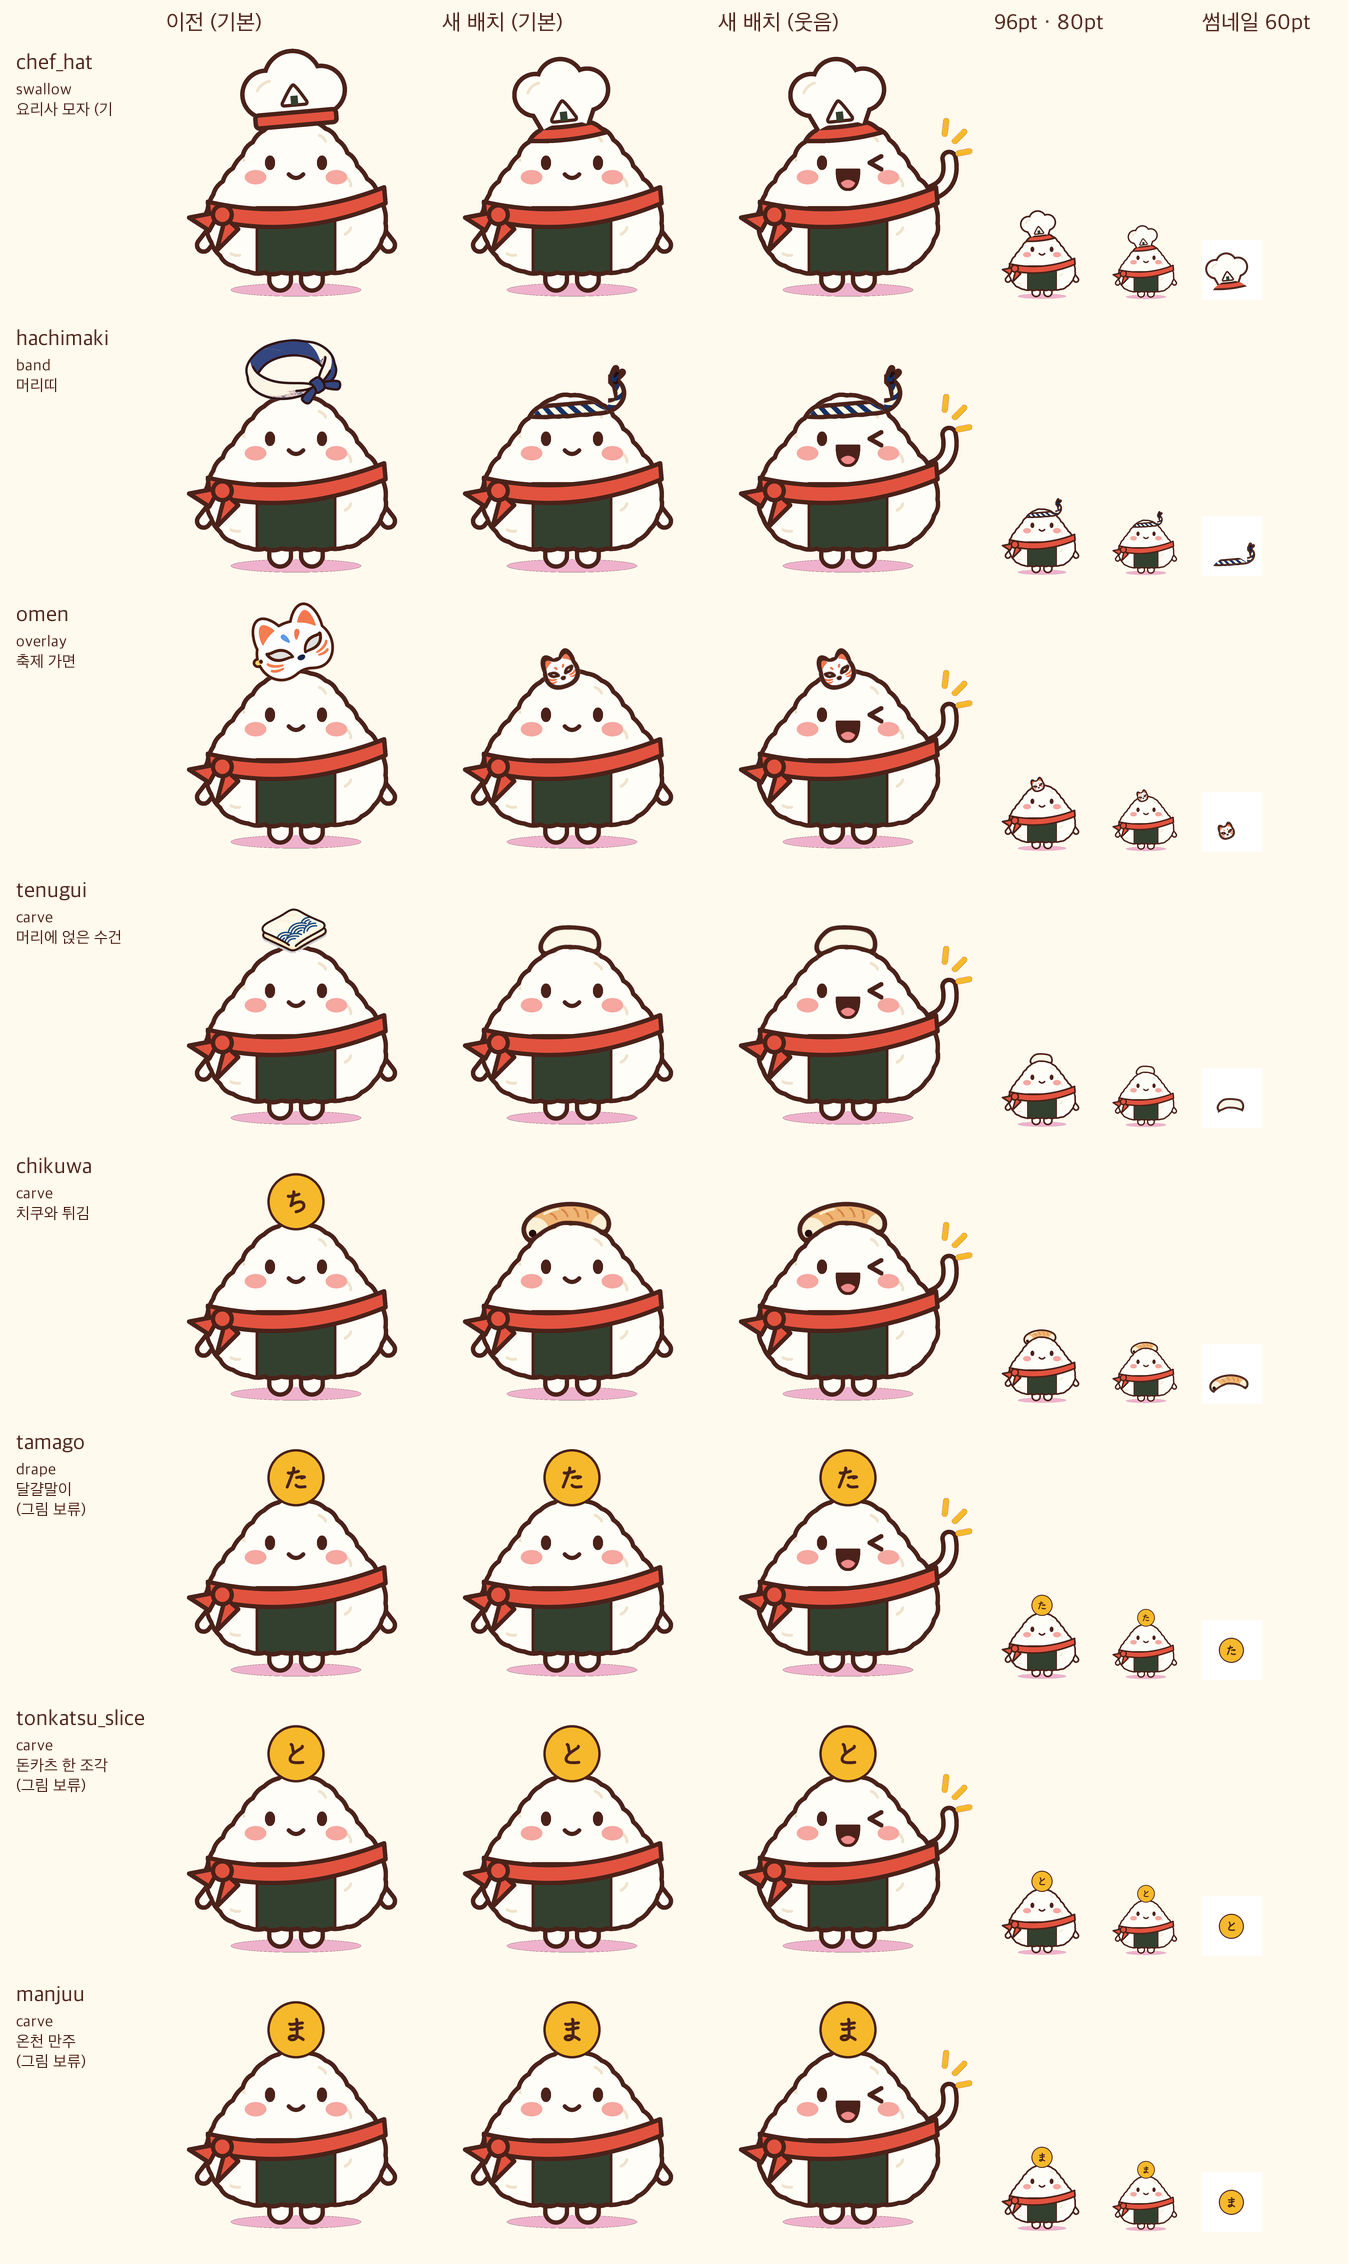
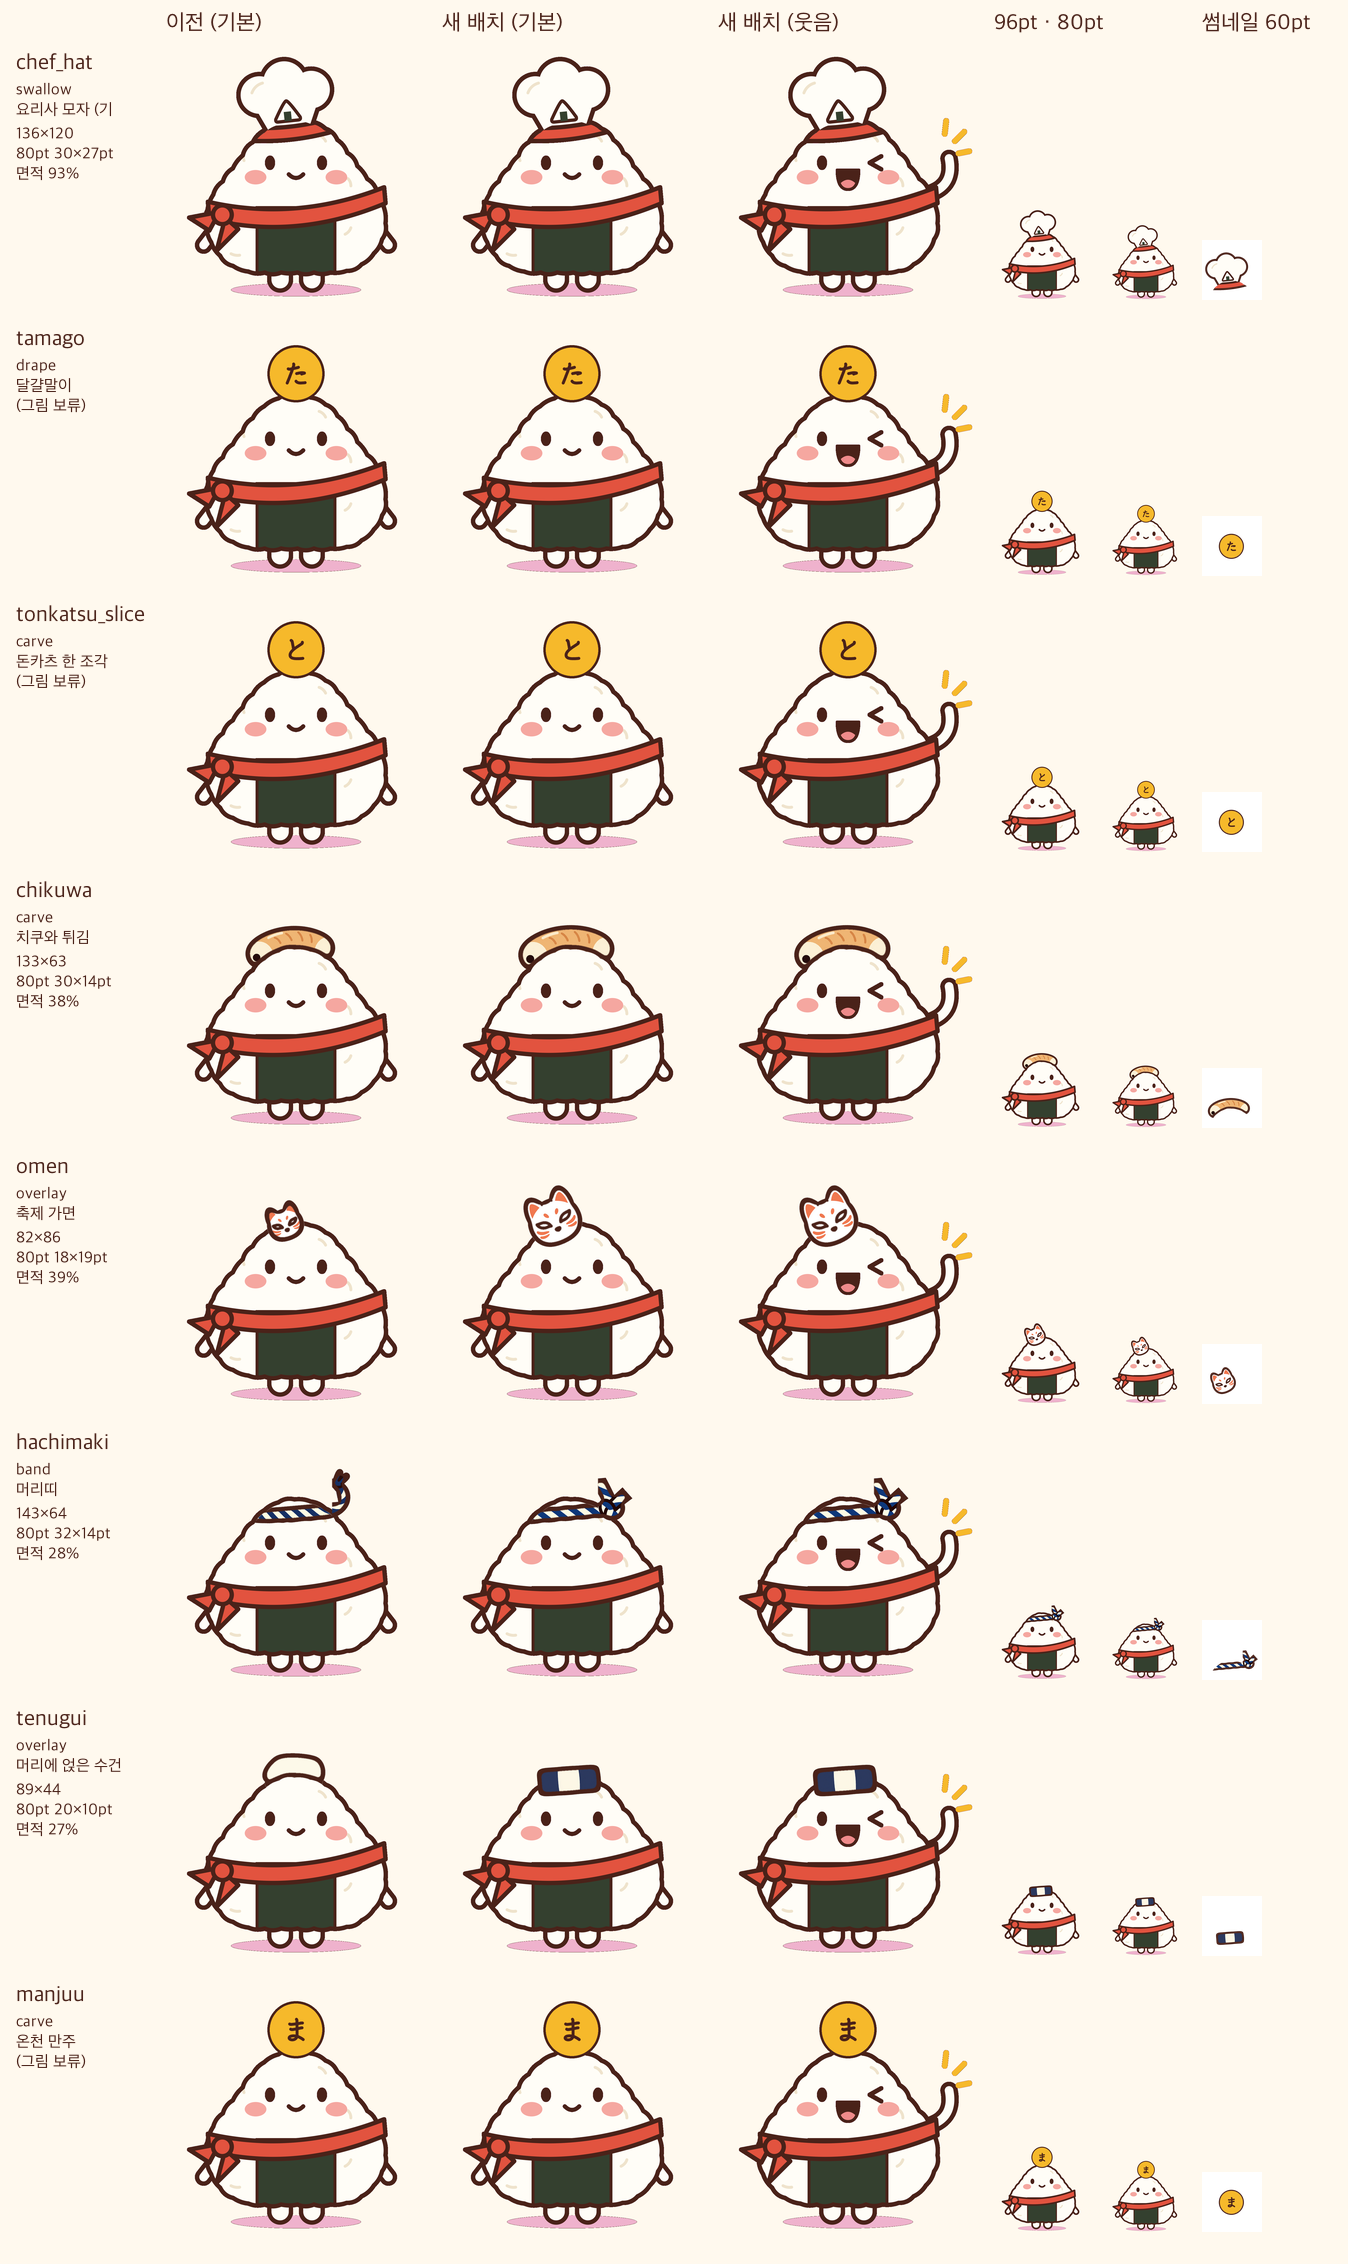
head-fit.md 2차 수정 구현 값·지금 값 표, 비교 시트 다시 만듦, 보류 작업 갱신
- 1.9.2 지금 값(검사 12로 잼), 3번 2차 수정 구현 값, 6.5 진행 상황
- schedule.md: tenugui·はちまき 임시 그림과 다시 할 조건

diff --git a/docs/design/item-art/head-fit.md b/docs/design/item-art/head-fit.md
@@ -189,7 +189,17 @@
 
 #### 1.9.2 아이템별 지금 값과 새 값
 
-지금 값의 면적 %와 보이는 상자는 비교 시트를 보고 셈한 **어림값**이다(도구가 아이템별 면적을 따로 출력하지 않았다). 새 값을 넣은 뒤 도구 출력으로 이 표의 "지금" 열도 채워 둔다.
+지금 값의 면적 %와 보이는 상자는 비교 시트를 보고 셈한 **어림값**이다(도구가 아이템별 면적을 따로 출력하지 않았다). 아래 "지금 (도구로 잰 값)" 표가 2차 수정 전 그림·배치를 검사 12로 잰 실제 값이다(2026-11-17, developer).
+
+지금 (도구로 잰 값, 2차 수정 전 배치):
+
+| id | 보이는 상자 | 폭 % | 80pt | 면적 % | 그 밖 |
+|---|---|---|---|---|---|
+| `chef_hat` | 136 × 120 | 55% | 30.1 × 26.6pt | 93% | |
+| `hachimaki` | 133 × 75 | 53% | 29.5 × 16.7pt | 25% | 띠 굵기 23(x 142 열, 꼰 무늬 굴곡 포함), 매듭 폭 19 |
+| `omen` | 55 × 58 | 22% | 12.2 × 12.9pt | 18% | |
+| `tenugui` | 87 × 47 | 35% | 19.4 × 10.4pt | 22% | `carve`로 잼 |
+| `chikuwa` | 124 × 59 | 50% | 27.6 × 13.1pt | 33% | 상자 136 × 56이 높이로 걸려 폭이 124 |
 
 | id | `fit` | 지금 `box` → 보이는 상자 (어림) | 지금 폭 % · 80pt · 면적 % | **새 `box`** → 보이는 상자 (손셈) | **새 폭 % · 80pt · 면적 %** | 방법 |
 |---|---|---|---|---|---|---|
@@ -303,6 +313,22 @@ brief.md 2.5.1과 reward-flow.md 8.1의 7층 그대로다: 배경 → 속재료(
 | `manjuu` | 보류 중 | carve e 4, dx −16, −12° | **76 × 60** | 3.4 |
 
 - 키 이름(`overlapRange`, `tiltRange`)은 developer가 바꿔도 된다. 지금 도구는 `overlay`의 겹침 40~60%와 기울기 −15°~−25°를 한 값으로 쓰므로, 아이템별 범위를 읽게 고쳐야 한다.
+
+**2차 수정 구현 값 (2026-11-18, developer, `items.json`과 넣는 도구 검사 결과).** 키 이름은 문서 그대로 썼다(`overlapRange`, `tiltRange`). 접은 수건에는 `indigoRange` [35, 50](검사 11을 켬)과 `sizeClass` "towel"(검사 12의 종류)을 더했다. 보이는 크기는 검사 12 출력이다(360 좌표, 80pt 환산, 면적은 `CHEF_HAT_AREA` 대비).
+
+| id | 그림 | 놓는 값 | 보이는 크기 · 80pt · 면적 | 검사 결과 | 손셈과 다른 것, 이유 |
+|---|---|---|---|---|---|
+| `chef_hat` | 그대로 | 그대로 | 136 × 120 (55%) · 30.1 × 26.6pt · 93% | 통과 | |
+| `omen` | 그대로 | overlay, **center (124, 102)**, −24°, box 76 × 78, **`innerGrow` 1.0** | 82 × 86 (33%) · 18.1 × 19.0pt · 39% | 통과. 겹침 34%, 얼굴 띠 143, 안쪽 선 21%, 채움 색 2 | (124, 104)면 얼굴 띠 145(검사 10·범위 밖 46px). 3.3.1 조정 1대로 y를 2 올렸다. `innerGrow` 0.75는 안쪽 선 66%로 걸려 조정 3대로 1.0 |
+| `chikuwa` | 그대로 | carve, dx −6, −5°, **box 144 × 60** | 133 × 63 (54%) · 29.6 × 14.1pt · 38% | 통과. 깎인 높이 25%, D_e 32·20(평균 26), 닿는 폭 86%, 눌러 놓기 29 | 그림 비율 2.1 : 1이라 높이 60에서 폭 133(손셈 144). 대안은 쓰지 않았다. 눌러 놓기 29는 상한 30에 가깝다 |
+| `hachimaki` | **다시 그림, 임시** (후보 7753 + `erase`) | band, **`bandTarget` (142, 140)**, −5°, `anchor` [0.40, "bottom"], **box 160 × 60**, **`clipExempt` (186, 60)–(236, 60)–(236, 158)–(186, 158)** | 143 × 64 (58%) · 31.7 × 14.3pt · 28% | 자동 검사 모두 통과. 띠 굵기 22, 띠 윗변 8, D_c 29, 띠 끝 +6·+27, 매듭 폭 37, 얼굴 띠 144 | 아래 "はちまき 그림" 참고. (142, 142)면 얼굴 띠·범위 밖. 매듭 폭 37은 3.2.1의 28~34보다 크다(도구는 하한만 잼). 꼬리가 x 236을 넘지 않게 매듭을 손셈 (206, 126)보다 약 4 왼쪽에 두고, 꼬리 위 끝이 y 86 위라 자르지 않는 구간을 y 60, x 186부터로 늘렸다 |
+| `tenugui` | **다시 그림, 임시** (후보 7741, `squash`) | **overlay, center (146, 117)**, −4°, **box 88 × 40**, `overlapRange` [45, 65], `tiltRange` [−8, −2] | 89 × 44 (36%) · 19.7 × 9.7pt · 27% | **겹침 66%(1 넘음), 남색 58%(8 넘음)만 걸림.** 아래 모서리 8·8, D_c 26, 얼굴 띠 139, 남색 띠 2개 폭 22·22, 두께 40 | 아래 "てぬぐい 그림" 참고. 손셈 (146, 116) · 92 폭이면 아래 모서리가 3·5(8 미만). 모서리 8을 지키는 자리에서는 겹침이 늘 66% 이상이었다(손셈 60%와 다름). 겹침 1을 넘기는 쪽을 골랐다(모서리 쪽이 1.4.5의 굵은 선·흰 조각을 막는 규칙이라) |
+
+- **てぬぐい 그림 (임시)**: 3.5.1 프롬프트·palette로 3장(시드 7731~7733), 고르는 기준이 모두 떨어져 "Like a white towel whose two short ends were dipped in dark indigo dye."를 더하고 캔버스를 1024 × 512로 넓혀 3장 더(7741~7743). 6장 모두 폭 : 높이 1.0~1.6 : 1(기준 4의 2.1~2.8에 못 미침), 남색 칸이 흰 칸보다 넓어 남색 55~65%(기준 2의 넓은 남색 두 칸은 맞음, 다른 색 줄·원근·위가 둥근 혹은 없음). 가장 나은 7741(윗변·아랫변 곧음, 1.5 : 1)을 `squash`로 88 × 40에 맞췄다(가로 약 1.5배 늘림). 3.5.1의 "반대 배색" 질문은 사용자 결정이라 하지 않았다. 남색 58%는 그림 탓이라 넣는 단계에서 고칠 수 없다(색 재지정 금지, 3.5.1).
+- **はちまき 그림 (임시)**: 3.2.1 프롬프트로 3장(7731~7733)은 모두 닫힌 고리·갈고리 모양과 꼿꼿한 꼬리였다. 6.3의 10대로 "not a ring" 문장을 맨 앞으로 옮기고("not bent back like a hook"를 더함) 캔버스를 1024 × 512로 넓혀 3장 더(7751~7753). 7752·7753이 열린 곧은 띠였고, 7753이 매듭 위에서 꼬리 둘이 오른쪽으로 갈라졌다(7752는 한 꼬리가 아래로). 7753의 꼬리는 길어서(띠 굵기 22로 줄이면 약 60) `erase`로 끝을 잘랐다(꼬리 길이 30 이하, x 236 이하). 그래서 꼬리 끝이 둥글지 않고 곧게 잘려 있다. 놓은 뒤 꼬리 각도는 눈으로 약 20°(윗 꼬리)·50°(아랫 꼬리)로 3.2.1의 35°·70°보다 서 있다. 띠의 꼰 무늬는 곧아서 웃는 곡선이 아니다(머리가 양 끝을 잘라 띠로는 읽힌다).
+- 검사 11·12 구현: 아래 모서리는 왼쪽 아래 y − x, 오른쪽 아래 y + x가 가장 큰 점(둥근 모서리의 45° 자리)에서, 그 행의 몸 외곽선 안쪽 가장자리까지 가로 거리다. 남색은 채도 0.2 이상 조건을 더했다. 남색 띠 폭은 덩어리 위·아래 20% 행을 뺀 가장 좁은 행이다. 띠 굵기는 `bandTarget` x 열, 수건 두께는 보이는 상자 가운데 열의 위아래 거리다. 매듭 폭은 띠 가운데 줄(기울기를 따라)을 지나면서 띠보다 4 넘게 두꺼운 열이 처음 이어지는 구간의 폭이다(꼬리는 가운데 줄 위라 빠짐).
+- 채움 색 검사의 한계: INDIGO처럼 어두운 색(`max(r, g, b)` < 110)은 외곽선으로 쳐서 채움 색에서 빠진다. tenugui의 "채움 색 1"은 실제로는 2가지다.
+- 토핑 상한을 160 × 80, 면적 80%, 위 끝 y 30 이상으로 도구에 반영했다(brief.md 2.1.4).
 
 모든 아이템이 앞 레이어 한 장이다. 아래 수치는 손으로 셈한 시작값이다. 기준은 넣는 도구의 검사(5번)이고, 어긋나면 dx는 2, 기울기는 1°, 눌러 놓기는 도구 값 단위로 고친다.
 
@@ -697,6 +723,8 @@ brief.md 2.5.1과 reward-flow.md 8.1의 7층 그대로다: 배경 → 속재료(
 
 - 로컬 이미지 모델이 없으면 4·5·7은 `docs/schedule.md` 보류 작업에 올리고(프롬프트는 3.2.1·3.5.1), 1·2·3·6을 먼저 한다.
 
+진행 상황 (2026-11-18, developer): 1~6 끝, 7은 그림이 없어 보류 그대로. 4(tenugui)와 5(はちまき)는 후보 6장씩 뽑아 기준을 다 맞춘 것이 없어 **임시**로 넣었다(3번 "2차 수정 구현 값"). 비교 시트는 `tools/head_fit_compare.py --before <바꾸기 전 에셋 폴더>`로 다시 만들었고, 줄마다 보이는 크기·80pt·면적을 적는다(80pt 칸은 원래 있음). 시뮬레이터 스크린샷은 `build/head-fit-shots/r2/`(git 밖). 3.3.1·3.2.1·3.5.1의 "사람" 판정은 하지 않았다.
+
 ## 7. 처음 처방에서 버린 것
 
 | 버린 것 | 이유 |
@@ -716,3 +744,4 @@ brief.md 2.5.1과 reward-flow.md 8.1의 7층 그대로다: 배경 → 속재료(
 - 2026-11-17: 추가 조사(head-item-fit.md "추가 조사") 반영. omen을 뒤 레이어 `hang`에서 앞 레이어 `overlay`로 바꿨다(가운데 (134, 108), 52 × 56, −20°, 머리와 겹침 40~60%, 정면 허용, 끈 생략). tenugui를 늘어진 아치 `drape`에서 접은 덩어리 `carve`로 바꿨다(88 × 34, 두께 28, dx −4, −3°, D_e 12~24). 뒤 레이어는 쓰는 아이템이 없어 만들지 않는다(7층 유지). 크기별 dx 기준을 "80 초과 0~−10"으로 고쳤다. 틈 검사를 7열 이상으로 고쳤다. 움직임에 はちまき 꼬리 흔들기를 선택 사항으로 더하고 0.03초 시험의 우선순위를 낮췄다. 6번 작업 목록과 7번(버린 것)을 맞췄다.
 - 2026-11-17 (developer): 구현. `place_item_art.py`에 맞춤 방식·검사, `make_onigiri_svg.py`에 새 기본 모자(아이콘은 `hat_icon()`). 문서에서 바꾼 값: 1.4.3의 눌러 놓기 기준(2 → 6 + e), 3.1의 구름·관 윗변·띠 길이, 3번 "구현한 값" 표(hachimaki·tenugui·chikuwa·omen의 상자와 놓는 값), 5번 검사 6·7의 재는 법, omen의 `innerGrow`(안쪽 선 굵히기). 6.4에 진행 상황.
 - 2026-11-17 2차 수정 (designer): 비교 시트와 사용자 피드백("머리 장식들이 너무 작아, 셰프 모자 빼고")으로 고쳤다. ① 1.9 크기 기준을 새로 두었다. 요리사 모자(136 × 120, 몸 폭의 55%, 면적 93%)를 기준점으로, 맞춤 방식별 크기 하한(80pt pt 값 포함)과 아이템별 지금/새 값 표, 키울 때의 한계. 검사 12(크기 하한)를 더했다. ② omen: 다시 그리지 않고 76 × 78, 가운데 (124, 104), −24°로 키워 옮겼다. 얼굴 띠(y 144) 때문에 더 내릴 수 없어 겹침 범위를 40~60%에서 33~50%로 내렸다(3.3.1). ③ tenugui: `carve`를 버리고 `overlay`로 옮겼다(92 × 40, 가운데 (146, 116), −4°, 겹침 45~65%). 모델이 오목한 밑면을 못 그리지만 평평한 아랫변은 그리므로, 깎지 않는 방식이 맞다. 남색은 양 끝 세로 띠 2개(놓은 뒤 폭 22~26, 남색 면적 35~50%)로 하고 새 프롬프트·palette를 적었다. 검사 11(아래 모서리, 남색)을 더했다(3.5.1). ④ はちまき: 띠 굵기 18 → 22, 매듭 20 → 30, 꼬리를 세로에서 35°·70°로 눕히고 끝을 4~6 처지게 했다. 지금 그림으로는 키울 수 없어 다시 그린다(3.2.1). ⑤ 음식 상자: chikuwa 144 × 60(재배치), tamago 144 × 60, tonkatsu_slice 124 × 60, manjuu 76 × 60(3.4.1). 깎인 높이 30% 한도는 바꾸지 않았다. ⑥ brief.md 2.1.4의 토핑 상한을 160 × 80, 면적 80%, 위 끝 y 30 이상으로 올렸다.
+- 2026-11-18 (developer): 2차 수정 구현. 1.9.2에 지금 값(도구로 잰 값) 표, 3번에 "2차 수정 구현 값" 표, 6.5에 진행 상황을 더했다. 손셈에서 바꾼 값: omen center (124, 102)·`innerGrow` 1.0, tenugui center (146, 117)·88 × 40, hachimaki `bandTarget` (142, 140)·`clipExempt`. tenugui·はちまき는 임시 그림이다.

diff --git a/docs/schedule.md b/docs/schedule.md
@@ -9,4 +9,5 @@ PM(메인 세션)이 관리한다. 기획 결정과 미정 항목은 [PLAN.md](.
 | 올린 날 | 작업 | 미룬 이유 | 다시 할 조건 | 참고 |
 |---|---|---|---|---|
 | 2026-11-16 | 꾸미기 머리 토핑 그림 3장: tamago, tonkatsu_slice, manjuu. 앱에는 임시 동그라미가 들어가 있다. (같은 줄의 chikuwa, ebiten, shake, umeboshi는 2026-11-17에 끝남) | 2026-11-17 로컬 모델로 아이템마다 3번씩 뽑았으나 "아랫면이 오목한 아치"를 그리지 못했다(두꺼운 말이·빵·말굽 모양, manjuu는 위에 흰 덮개가 늘 생김). 깎인 높이 33~56%로 head-fit.md 1.4.3의 30%를 넘음 | 프롬프트를 새로 짜 볼 방법이 생길 때. 예: chikuwa가 성공한 문장("bent into a shallow arch like a wide frown ... bottom edge clearly curved upward")을 기본으로 시드를 더 돌리기, 또는 사용자가 아치 형태를 손그림 참고로 줄 때. 아이템당 3번 제한을 풀지는 사용자 결정 | 지금 프롬프트: items.json. 실패 후보: source/candidates/{tamago_1101,1111,1121, tonkatsu_slice_2202,2212,2222, manjuu_4404,4414,4424}.png(git 밖). 놓는 값: head-fit.md 3.4 |
-| 2026-11-17 | tenugui 다시 그리기(아치로 휜 접은 덩어리 + 남색 줄). 지금 그림은 임시: 접은 덩어리·정면은 맞지만 밑면이 곧아 깎인 높이 35%(검사 5 실패), 남색 줄이 깎여 사라져 흰 모자처럼 보인다 | 3번 뽑은 후보 중 밑면이 휜 것이 없었다 | 위 토핑 줄과 같다 | head-fit.md 3번 "구현한 값", items.json tenugui |
+| 2026-11-18 | tenugui 다시 그리기(양 끝 남색 접은 수건, overlay). 지금 그림은 임시: 후보 7741을 가로로 약 1.5배 늘려(`squash`) 88 × 40에 넣었다. 남색 58%(기준 35~50%), 머리와 겹침 66%(기준 45~65%)만 검사에 걸림 | 2026-11-17~18 후보 6장(3.5.1 프롬프트 3장, 덧붙일 문장 + 1024×512 캔버스 3장)이 모두 폭:높이 1.0~1.6:1, 남색 칸이 흰 칸보다 넓었다 | 사용자가 배색을 정할 때(3.5.1: 지금 배색으로 더 뽑기, 아이템당 횟수 제한 풀기, 또는 "남색 바탕에 흰 양 끝" 반대 배색) | head-fit.md 3번 "2차 수정 구현 값", 3.5.1, items.json tenugui. 실패 후보: source/candidates/tenugui_7731~7733, 7741~7743(git 밖) |
+| 2026-11-18 | はちまき 다시 그리기(띠 굵기 22, 매듭 30, 꼬리 35°·70°로 눕고 끝이 처짐). 지금 그림은 임시: 후보 7753의 꼬리 끝을 `erase`로 잘라 넣었다. 자동 검사는 모두 통과하지만 꼬리가 놓은 뒤 약 20°·50°로 서 있고 끝이 곧게 잘렸으며, 매듭 폭 37(3.2.1은 28~34), 띠가 곧다 | 후보 6장(3.2.1 프롬프트 3장은 고리·갈고리, not a ring을 앞으로 옮긴 3장 중 열린 띠 2장). 꼬리를 짧게, 눕혀 그린 후보가 없었다 | 사람이 비교 시트 80pt 칸에서 지금 임시를 받아들일 수 없다고 볼 때. 다시 뽑으면 넓은 캔버스(1024×512)와 "two short tails"를 더 강조한 문장으로 | head-fit.md 3번 "2차 수정 구현 값", 3.2.1. 후보: source/candidates/hachimaki_7731~7733, 7751~7753(git 밖) |
